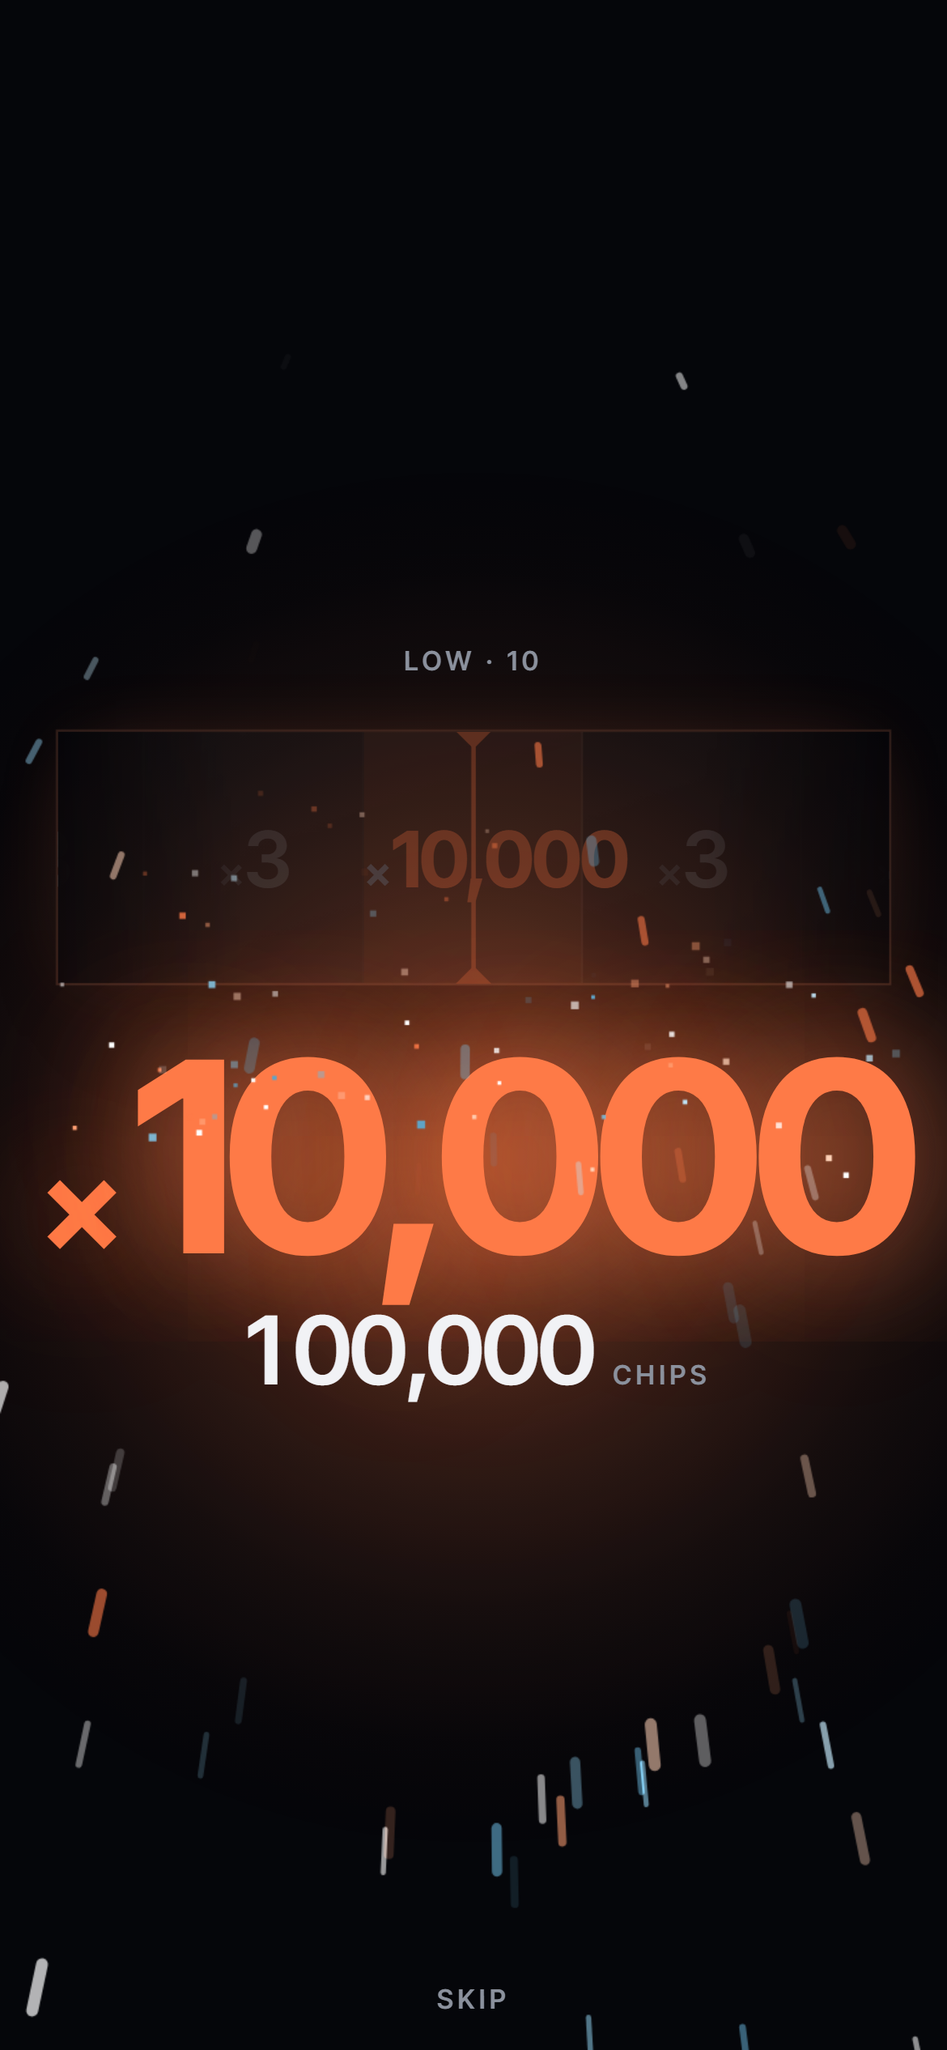
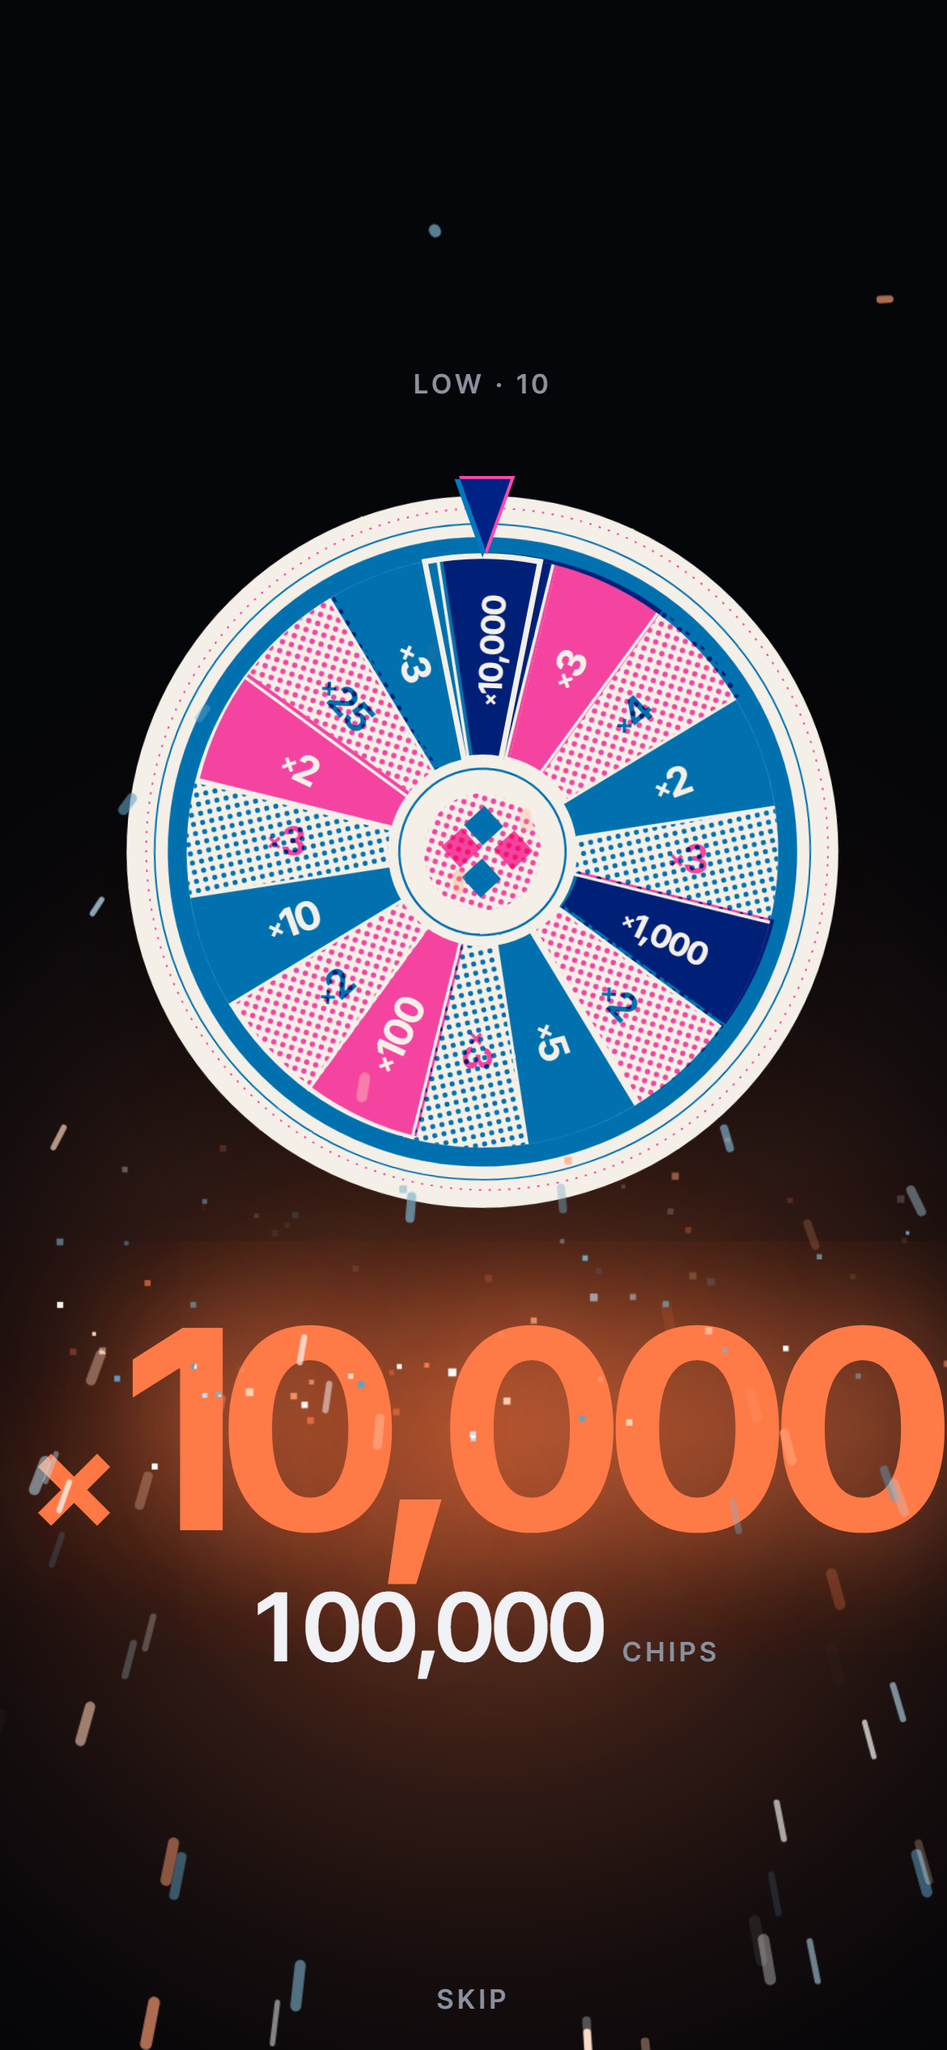
feat(ui): 倍率ルーレットを円形の2色刷りデザインに変更し、X投稿用スクショを撮り直す

diff --git a/src/ui/wheel.js b/src/ui/wheel.js
@@ -1,18 +1,19 @@
-// Multiplier reveal. The strip is drawn from the real odds of the stake (no near-miss padding: what scrolls past is as likely as it
-// really is) and the stopped cell is the server's multiplier. Only the *show* scales with the result, in five steps:
-//   t0  x2 x3        crisp ~2.4 s: ratchet reel, detent bounce, window flash, small stinger
+// Multiplier reveal on a round prize wheel, printed like a two-colour risograph (pink + blue plates, slightly off-register, on a paper
+// disc). Every multiplier of the stake has one segment; x2 / x3 fill the rest. The wheel stops with the server's multiplier under the
+// pointer (top). The segments are not the odds (those are in the rules). Only the *show* scales with the result, in five steps:
+//   t0  x2 x3        crisp ~2.4 s: ratchet wheel, detent bounce, segment flash, small stinger
 //   t1  x4 x5        ~4.1 s: slower "will it stop?" crawl, ring + glow, haptic
 //   t2  x10 x25      ~5.3 s: dim + drone, long creep, flash + shake, sparks, prize rolls up with acceleration
 //   t3  x100         ~7.6 s: build-up (rays, scanlines, heartbeat vignette, speeding drone), hard cut, stamp, burst, embers
 //   t4  x1000+       ~7.9 s: t3 + a second burst with a colour shift (x10000: a third)
 // Tap / Enter / Esc skips: the first tap jumps to the final state (multiplier + prize), the next one leaves. Reduced motion: no
-// strip, shake, particles or rays, only a short fade.
+// spin, shake, particles or rays, only a short fade.
 import { MULTIPLIERS, STAKES } from '../spin.js';
 import { $, REDUCE, fmt, STAKE_LABEL } from './util.js';
 import * as snd from './sound.js';
 
 const tier = m => m >= 1000 ? 4 : m >= 100 ? 3 : m >= 10 ? 2 : m >= 4 ? 1 : 0;
-const CELL = 96;
+const CELL = 96;   // the motion profiles below are in "cells"; one cell = one segment of the wheel
 const lerp = (a, b, k) => a + (b - a) * k, clamp01 = k => k < 0 ? 0 : k > 1 ? 1 : k;
 const E = { in2: k => k * k, lin: k => k, out: p => k => 1 - Math.pow(1 - k, p) };
 // reel motion per tier: segments of { ms, d: px (relative weights), e: easing }. Speeds join up (2d/ms for ease-in, p*d/ms for ease-out).
@@ -28,11 +29,56 @@ const AFTER = [1000, 1700, 2100, 2900, 2960];                          // ms fro
 const COUNT = [420, 750, 1000, 1700, 1900], BOOM = [0, 0, 0, 160, 160]; // prize roll-up; the hard-cut pause before the boom
 const FREE_MS = { reveal: 600, count: 500, hold: 1500 };
 
-function pickWeighted(rows) {
-  let r = Math.random() * rows.reduce((s, x) => s + x[1], 0);
-  for (const [m, n] of rows) { if ((r -= n) < 0) return m }
-  return rows[rows.length - 1][0];
+/* ---------- the wheel (SVG, viewBox -200..200, pointer at the top = -90°) ---------- */
+const NSEG = 16, SEG = 360 / NSEG, PAPER = '#F4F0E8', PINK = '#FF48B0', BLUE = '#0078BF';
+// one segment per multiplier of the stake, spread round the wheel (large and small alternate), x3 / x2 in between
+function wheelSegments(stake) {
+  const rare = (MULTIPLIERS[stake] || []).map(r => r[0]).filter(x => x >= 4), order = [];
+  for (let hi = 0, lo = rare.length - 1; hi <= lo;) { order.push(rare[hi++]); if (hi <= lo) order.push(rare[lo--]) }
+  const segs = new Array(NSEG).fill(0);
+  order.forEach((m, k) => { segs[Math.round(k * NSEG / order.length)] = m });
+  for (let i = 0, c = 0; i < NSEG; i++) if (!segs[i]) segs[i] = c++ % 2 ? 2 : 3;
+  return segs;
 }
+const at = (r, a) => `${(r * Math.cos(a * Math.PI / 180)).toFixed(2)} ${(r * Math.sin(a * Math.PI / 180)).toFixed(2)}`;
+const wedge = (a0, a1, r0, r1) => `M${at(r0, a0)}L${at(r1, a0)}A${r1} ${r1} 0 0 1 ${at(r1, a1)}L${at(r0, a1)}A${r0} ${r0} 0 0 0 ${at(r0, a0)}Z`;
+const R = 168, RIM = R * .94, HUB = R * .3, OFF = 'translate(2.4 -1.6)';   // OFF: the pink plate's misregistration
+const TILES = (f1, f2) => `<rect x="-31.5" y="-31.5" width="27" height="27" fill="${f1}"/><rect x="4.5" y="4.5" width="27" height="27" fill="${f1}"/><rect x="4.5" y="-31.5" width="27" height="27" fill="${f2}"/><rect x="-31.5" y="4.5" width="27" height="27" fill="${f2}"/>`;
+function wheelDisc(segs) {
+  // ink per segment: P pink, B blue, H pink halftone, K blue halftone, X both (overprint, for x1000 and up)
+  const ink = segs.map((m, i) => m >= 1000 ? 'X' : ['K', 'P', 'H', 'B'][i % 4]);
+  const label = (i, fill) => {
+    const a = -90 + i * SEG, n = ((a % 360) + 360) % 360, rot = n > 90 && n < 270 ? a + 180 : a, [x, y] = at(R * .64, a).split(' '), fs = segs[i] >= 1000 ? 17 : 21;
+    return `<text x="${x}" y="${y}" transform="rotate(${rot} ${x} ${y})" text-anchor="middle" dominant-baseline="central" font-size="${fs}" fill="${fill}"><tspan font-size="${fs * .6}">×</tspan>${fmt(segs[i])}</text>`;
+  };
+  let pink = '', blue = '', knock = '';
+  segs.forEach((m, i) => {
+    const a = -90 + i * SEG, d = wedge(a - SEG / 2, a + SEG / 2, HUB, RIM), k = ink[i];
+    if (k === 'P' || k === 'X') pink += `<path d="${d}" fill="${PINK}"/>`;
+    if (k === 'B' || k === 'X') blue += `<path d="${d}" fill="${BLUE}"/>`;
+    if (k === 'H') { pink += `<path d="${d}" fill="url(#wdp)"/>`; blue += label(i, BLUE) }
+    if (k === 'K') { blue += `<path d="${d}" fill="url(#wdb)"/>`; pink += label(i, PINK) }
+    if (k === 'P' || k === 'B' || k === 'X') knock += label(i, PAPER);
+    knock += `<path d="M${at(HUB, a - SEG / 2)}L${at(RIM, a - SEG / 2)}" stroke="${PAPER}" stroke-width="1.6"/>`;
+    const [px, py] = at((R + RIM) / 2, a - SEG / 2).split(' '); blue += `<circle cx="${px}" cy="${py}" r="2.6" fill="${BLUE}"/>`;
+  });
+  blue += `<circle r="${(R + RIM) / 2}" fill="none" stroke="${BLUE}" stroke-width="${R - RIM}"/><circle r="${R + 7}" fill="none" stroke="${BLUE}" stroke-width=".9"/>`;
+  pink += `<circle r="${R + 14}" fill="none" stroke="${PINK}" stroke-width=".9" stroke-dasharray="1.2 4"/>`;
+  knock += `<circle r="${HUB}" fill="${PAPER}"/>`;
+  return `<svg class="w-disc" viewBox="-200 -200 400 400"><defs>
+      <pattern id="wdp" width="5" height="5" patternUnits="userSpaceOnUse" patternTransform="rotate(15)"><circle cx="2.5" cy="2.5" r="1.45" fill="${PINK}"/></pattern>
+      <pattern id="wdb" width="5" height="5" patternUnits="userSpaceOnUse" patternTransform="rotate(75)"><circle cx="2.5" cy="2.5" r="1.35" fill="${BLUE}"/></pattern></defs>
+    <circle r="${R + 22}" fill="${PAPER}"/>
+    <g class="pl">${blue}</g><g class="pl" transform="${OFF}">${pink}</g><g>${knock}</g>
+    <g class="pl"><circle r="${HUB - 6}" fill="none" stroke="${BLUE}" stroke-width="1.2"/><circle r="${HUB * .62}" fill="url(#wdp)"/><g transform="rotate(45) scale(.55)">${TILES(BLUE, 'transparent')}</g></g>
+    <g class="pl" transform="${OFF} rotate(45) scale(.55)">${TILES('transparent', PINK)}</g></svg>`;
+}
+// what does not turn: the flash and outline on the segment under the pointer, and the pointer itself
+const wheelFront = () => {
+  const d = wedge(-90 - SEG / 2, -90 + SEG / 2, HUB, RIM), tri = 'M-15 -199L15 -199L0 -157Z';
+  return `<svg class="w-front" viewBox="-200 -200 400 400"><path class="w-win" d="${d}" fill="#fff" opacity="0"/><path class="w-hitl" d="${d}" fill="none" stroke="${PAPER}" stroke-width="3"/>
+    <g class="pl"><path d="${tri}" fill="${BLUE}"/></g><g class="pl" transform="${OFF}"><path d="${tri}" fill="${PINK}"/></g></svg>`;
+};
 
 /* ---------- sparks / embers on a canvas ---------- */
 const WARM = ['#FE7A47', '#FF9F73', '#FFD2B8', '#ffffff'], COOL = ['#7DB4CF', '#5FA3C6', '#BFE3F5', '#ffffff'], ALL = [...WARM, ...COOL];
@@ -73,36 +119,36 @@ function makeFx(canvas, host) {
 export function playWheel(info) {
   return new Promise(resolve => {
     const el = $('#wheel'), free = info.multiplier == null, m = info.multiplier, t = free ? 0 : tier(m), to = info.prize || 0;
-    const rows = free ? [] : MULTIPLIERS[info.stake] || [], buy = (STAKES[info.stake] || {}).buyIn;
+    const buy = (STAKES[info.stake] || {}).buyIn;
     const tok = el._tok = {};
     el.className = 'wheel t' + t;
     el.style.setProperty('--tc', t >= 2 ? '#FE7A47' : t === 1 ? 'var(--you-text)' : 'var(--ink)');
 
-    // ---- geometry: where the strip must travel so that the cell under the mark is the server's multiplier ----
+    // ---- geometry: how far the wheel turns (degrees) so that the segment under the pointer is the server's multiplier ----
     const prof = PROFILE[t].map(s => ({ ...s })), S = prof.reduce((s, x) => s + x.ms, 0), D0 = prof.reduce((s, x) => s + x.d, 0);
+    const segs = free ? [] : wheelSegments(info.stake);
+    if (!free && !segs.includes(m)) segs[0] = m;
+    const hits = segs.map((x, i) => x === m ? i : -1).filter(i => i >= 0), TARGET = hits[(Math.random() * hits.length) | 0] || 0;
+    // segment i sits at the pointer when the rotation is -i·SEG (mod 360); land a little off its centre, like a real wheel
+    const A0 = Math.random() * 360, base = D0 * SEG / CELL, land = -TARGET * SEG + (Math.random() - .5) * SEG * .5;
+    const D = base + ((((land - A0 - base) % 360) + 360) % 360), O = OVER[t] * SEG / CELL, sc = (D + O) / D0;
     el.hidden = false;
-    // first paint of a minimal shell so the reel width can be measured (the strip is filled in below)
-    el.innerHTML = `<div class="w-in"><div class="w-stack"><div class="w-reel"></div></div></div>`;
-    const wReel = free ? 0 : el.querySelector('.w-reel').clientWidth;
-    const TARGET = free ? 0 : Math.max(8, Math.round((D0 + wReel / 2) / CELL - .5)), N = TARGET + Math.ceil(wReel / 2 / CELL) + 3;
-    const D = (TARGET + .5) * CELL - wReel / 2, O = OVER[t], sc = (D + O) / D0;
-    const cells = Array.from({ length: N }, (_, i) => i === TARGET || !rows.length ? m : pickWeighted(rows));
 
     el.innerHTML = `<div class="w-in">
       <div class="w-bg"></div><div class="w-rays"></div><div class="w-scan"></div><div class="w-vig"></div><div class="w-glow"></div>
       <div class="w-stack">
         <div class="w-top"><div class="eyebrow">${STAKE_LABEL[info.stake] || ''}${buy ? ' · ' + fmt(buy) : ''}</div></div>
-        ${free ? '' : `<div class="w-reel" aria-hidden="true"><div class="w-strip">${cells.map((c, i) => `<div class="w-cell t${tier(c)}${i === TARGET ? ' tg' : ''}"><span><small>×</small>${fmt(c)}</span></div>`).join('')}</div><i class="w-mark"></i><i class="w-ring"></i><i class="w-win"></i></div>`}
+        ${free ? '' : `<div class="w-reel" aria-hidden="true"><div class="w-rot" style="transform:rotate(${A0}deg)">${wheelDisc(segs)}</div>${wheelFront()}<i class="w-ring"></i></div>`}
         <div class="w-res" role="status"><div class="w-mult" id="wMult">${free ? '<span class="w-free">FREEROLL</span>' : `<small>×</small>${fmt(m)}`}</div>
         <div class="w-prize" id="wPrize"><span id="wPv">0</span><small>CHIPS</small></div></div>
       </div>
       <canvas class="w-fx"></canvas><div class="w-flash"></div></div>
       <div class="w-hint eyebrow">SKIP</div>`;
     const q = s => el.querySelector(s);
-    const inEl = q('.w-in'), stack = q('.w-stack'), strip = q('.w-strip'), reel = q('.w-reel'), mult = q('#wMult'), prize = q('#wPrize'), pv = q('#wPv');
+    const inEl = q('.w-in'), stack = q('.w-stack'), rot = q('.w-rot'), reel = q('.w-reel'), mult = q('#wMult'), prize = q('#wPrize'), pv = q('#wPv');
     const bg = q('.w-bg'), rays = q('.w-rays'), scan = q('.w-scan'), vig = q('.w-vig'), flash = q('.w-flash'), win = q('.w-win'), ring = q('.w-ring');
     // a long multiplier (x10,000) must fit a phone: shrink the type, never wrap
-    const fit = () => { mult.style.fontSize = ''; const avail = stack.clientWidth - 8, w = mult.offsetWidth; if (w > avail) mult.style.fontSize = (parseFloat(getComputedStyle(mult).fontSize) * avail / w) + 'px' };
+    const fit = () => { mult.style.fontSize = ''; const avail = mult.parentElement.clientWidth - 8, w = mult.offsetWidth; if (w > avail) mult.style.fontSize = (parseFloat(getComputedStyle(mult).fontSize) * avail / w) + 'px' };
     fit();
     // light sources follow the real layout: rays/vignette on the reel, the glow behind the result
     const place = () => {
@@ -138,7 +184,7 @@ export function playWheel(info) {
     };
     const flashAll = (color, peak, ms) => { if (REDUCE) return; flash.style.background = color; flash.animate([{ opacity: peak }, { opacity: 0 }], { duration: ms, easing: 'ease-out' }) };
     const flashWin = peak => { if (REDUCE || !win) return; win.animate([{ opacity: peak }, { opacity: 0 }], { duration: 260, easing: 'ease-out' }) };
-    const pulseRing = (x = 3.6, ms = 520) => { if (REDUCE || !ring) return; ring.animate([{ transform: 'scaleX(1)', opacity: .95 }, { transform: `scaleX(${x})`, opacity: 0 }], { duration: ms, easing: 'cubic-bezier(.1,.7,.2,1)' }) };
+    const pulseRing = (x = 3.6, ms = 520) => { if (REDUCE || !ring) return; ring.animate([{ transform: 'scale(1)', opacity: .95 }, { transform: `scale(${1 + (x - 1) * .12})`, opacity: 0 }], { duration: ms, easing: 'cubic-bezier(.1,.7,.2,1)' }) };
     const stamp = () => {
       if (REDUCE) return;
       const kf = t >= 3 ? [{ transform: 'scale(3.4)', opacity: 0, filter: 'blur(14px)' }, { transform: 'scale(.9)', opacity: 1, filter: 'blur(0)', offset: .3 }, { transform: 'scale(1.05)', offset: .55 }, { transform: 'scale(1)', opacity: 1, filter: 'blur(0)' }]
@@ -169,7 +215,8 @@ export function playWheel(info) {
       if (pop && t >= 2 && !REDUCE) prize.animate([{ transform: 'scale(1)' }, { transform: 'scale(1.1)', offset: .4 }, { transform: 'scale(1)' }], { duration: 260, easing: 'cubic-bezier(.2,.8,.2,1)' });
     };
 
-    const hitCell = () => { const c = strip && strip.children[TARGET]; if (c) c.classList.add('hit') };
+    const hitCell = () => { if (reel) reel.classList.add('hit') };
+    const turn = p => { rot.style.transform = `rotate(${(A0 + p).toFixed(3)}deg)` };
     const showResult = () => { el.classList.add('rev'); mult.style.opacity = 1; prize.style.opacity = 1 };
 
     // the moment of impact (after the hard-cut pause on tier 3+)
@@ -223,7 +270,7 @@ export function playWheel(info) {
       timers.forEach(clearTimeout); timers.length = 0; clearTimeout(holdTimer);
       if (drone) { drone.stop(true); drone = null } if (fx) { fx.stop(); fx = null }
       cancelAnims();
-      if (strip) strip.style.transform = `translate3d(${-D}px,0,0)`;
+      if (rot) turn(D);
       if (t >= 2 && !reduced) { el.classList.add('dk'); bg.style.transition = 'none'; bg.style.opacity = 1 }
       [rays, scan, vig].forEach(x => { x.style.transition = 'none'; x.style.opacity = 0 });
       if (t >= 4) { mult.style.color = ''; el.style.setProperty('--tc', '#FE7A47') }
@@ -289,8 +336,8 @@ export function playWheel(info) {
     const frame = now => {
       if (!reelOn || done) return;
       const e = Math.max(0, now - tStart), p = posAt(e), v = (p - prevP) / Math.max(1, now - prevT);
-      strip.style.transform = `translate3d(${-p}px,0,0)`;
-      const s01 = clamp01(Math.abs(v) / 3.4), idx = Math.floor((p + wReel / 2) / CELL);
+      turn(p);
+      const s01 = clamp01(Math.abs(v) * CELL / SEG / 3.4), idx = Math.floor((A0 + p) / SEG + .5);   // a tick per segment boundary
       if (idx !== lastIdx) { lastIdx = idx; if (e < S) snd.tick(s01) }
       if (e < S) {
         if (drone) drone.set(s01);

diff --git a/src/style.css b/src/style.css
@@ -416,37 +416,38 @@ dialog::backdrop{background:rgba(12,14,20,.28);-webkit-backdrop-filter:blur(8px)
 .w-fx{inset:0;width:100%;height:100%;z-index:4}
 .w-flash{inset:0;background:#fff;opacity:0;z-index:5}
 .w-top{position:relative;text-align:center}
-.w-reel{position:relative;width:min(560px,100%);height:112px;overflow:hidden;border:1px solid var(--edge);background:linear-gradient(160deg,var(--glass-hi),var(--glass-lo));box-shadow:var(--shadow)}
-.wheel.dk .w-reel{border-color:color-mix(in srgb,var(--cpu) 45%,var(--edge));box-shadow:var(--shadow),0 0 36px -8px color-mix(in srgb,var(--cpu) 55%,transparent)}
-.w-reel::before,.w-reel::after{content:"";position:absolute;top:0;bottom:0;width:22%;z-index:2;pointer-events:none}
-.w-reel::before{left:0;background:linear-gradient(90deg,var(--bg),transparent)}
-.w-reel::after{right:0;background:linear-gradient(270deg,var(--bg),transparent)}
-.w-mark{position:absolute;left:50%;top:0;bottom:0;width:2px;margin-left:-1px;background:var(--cpu);z-index:3}
-.w-mark::before,.w-mark::after{content:"";position:absolute;left:50%;width:12px;height:12px;background:var(--cpu);transform:translateX(-50%) rotate(45deg)}
-.w-mark::before{top:-7px}.w-mark::after{bottom:-7px}
-.w-win{position:absolute;inset:0;background:var(--cpu);opacity:0;z-index:4;pointer-events:none}
-.wheel.t1 .w-win{background:#7DB4CF}
-.w-ring{position:absolute;left:50%;top:0;bottom:0;width:96px;margin-left:-48px;border:2px solid var(--tc);opacity:0;z-index:3;pointer-events:none}
-.w-strip{position:absolute;left:0;top:0;bottom:0;display:flex;will-change:transform}
-.w-cell{flex:none;width:96px;display:grid;place-items:center;font-family:var(--f-num);font-weight:600;font-size:34px;letter-spacing:-.04em;color:var(--ink-2);border-right:1px solid var(--hair)}
-.w-cell small{font-size:.55em;margin-right:1px;color:var(--muted)}
-.w-cell.t1{color:var(--you-text)}.w-cell.t2{color:var(--cpu)}.w-cell.t3,.w-cell.t4{color:var(--cpu);font-weight:700}
-.w-cell.hit{background:color-mix(in srgb,var(--tc) 16%,transparent);color:var(--tc)}
-.wheel.rev .w-cell:not(.hit){opacity:.4;transition:opacity .3s}
-.w-res{position:relative;display:grid;justify-items:center;gap:6px;min-height:150px;align-content:start}
+/* the round wheel: a paper disc printed in two inks (pink + blue, multiply), turned under a fixed pointer at the top */
+.w-reel{position:relative;--ws:min(86vw,360px,calc(var(--app-h,100dvh) - 320px));width:var(--ws);height:var(--ws);flex:none}
+.w-rot{position:absolute;inset:0;will-change:transform}
+.w-disc,.w-front{position:absolute;inset:0;width:100%;height:100%;overflow:visible;isolation:isolate}
+.w-disc{filter:drop-shadow(0 18px 30px rgba(0,0,0,.35))}
+.w-disc text{font-family:var(--f-num);font-weight:800;letter-spacing:-.5px}
+.w-disc .pl,.w-front .pl{mix-blend-mode:multiply}
+.w-hitl{opacity:0;transition:opacity .25s}
+.w-reel.hit .w-hitl{opacity:1}
+.w-ring{position:absolute;inset:-3%;border:2px solid var(--tc);border-radius:50%;opacity:0;z-index:3;pointer-events:none}
+.w-res{position:relative;display:grid;justify-items:center;justify-self:stretch;gap:6px;min-height:150px;align-content:start}
 .w-mult{font-family:var(--f-num);font-weight:700;font-size:clamp(76px,22vw,140px);letter-spacing:-.06em;line-height:.9;opacity:0;color:var(--tc);transform-origin:50% 60%;white-space:nowrap}
 .w-mult small{font-size:.5em;letter-spacing:0;margin-right:.04em}
 .w-prize{display:flex;align-items:baseline;gap:8px;font-family:var(--f-num);font-weight:600;font-size:clamp(30px,8vw,46px);letter-spacing:-.04em;font-variant-numeric:tabular-nums;opacity:0}
 .w-prize small{font-size:11px;letter-spacing:.16em;color:var(--muted)}
 .w-hint{position:absolute;z-index:6;bottom:calc(14px + var(--sab));left:0;right:0;text-align:center}
-.wheel.rev .w-reel{opacity:.5;transform:scale(.97);transition:opacity .4s,transform .4s}
-.wheel.t3.rev .w-reel,.wheel.t4.rev .w-reel{opacity:.3;transform:scale(.94)}
+.wheel.rev .w-reel{transform:scale(.96);transition:transform .4s}
+.wheel.t3.rev .w-reel,.wheel.t4.rev .w-reel{transform:scale(.92)}
 .w-free{font-family:var(--f-num);font-weight:700;font-size:clamp(34px,10vw,56px);letter-spacing:.14em;color:var(--you-text)}
 .wheel.t1 .w-mult{text-shadow:0 0 28px color-mix(in srgb,var(--tc) 40%,transparent)}
 .wheel.t2 .w-mult{font-size:clamp(88px,26vw,170px);text-shadow:0 0 36px color-mix(in srgb,var(--tc) 55%,transparent)}
 .wheel.t3 .w-mult,.wheel.t4 .w-mult{font-size:clamp(96px,30vw,230px);text-shadow:0 0 50px color-mix(in srgb,var(--tc) 70%,transparent),0 0 130px color-mix(in srgb,var(--tc) 40%,transparent);transition:color .3s}
 .wheel.t3 .w-prize,.wheel.t4 .w-prize{font-size:clamp(36px,10vw,64px)}
 @media (prefers-reduced-motion:reduce){.w-rays,.w-scan,.w-vig,.w-ring{display:none}.w-glow{animation:none!important}}
+/* a short landscape screen: the wheel on the left, the result on the right */
+@media (orientation:landscape) and (max-height:560px){
+  .w-stack{grid-template-columns:auto minmax(0,1fr);align-items:center;column-gap:28px;row-gap:6px}
+  .w-top{grid-column:1/-1}
+  .w-reel{--ws:min(calc(var(--app-h,100dvh) - 90px),300px)}
+  .w-res{min-height:0}
+  .wheel[class] .w-mult{font-size:min(22vw,calc(var(--app-h,100dvh) * .4))}
+}
 /* header sound toggle (src/ui/sound.js) */
 .top-r{justify-self:end;display:flex;align-items:center;gap:6px}
 .sound-toggle{width:2rem;height:2rem;display:grid;place-items:center;border:1px solid var(--hair-2);background:transparent;color:var(--ink);cursor:pointer;transition:border-color .3s cubic-bezier(.2,.8,.2,1)}
@@ -514,7 +515,6 @@ body.land .betm{left:calc(50% + var(--mine)*1.1);bottom:calc(var(--plh,66px) + 5
   .wordmark{font-size:38px}
   .mbtn{min-height:50px;font-size:18px}
   .tagline{margin-bottom:4px}
-  .w-reel{height:88px}
   .w-res{min-height:120px}
 }
 @media (max-height:560px) and (min-width:640px){

diff --git a/CLAUDE.md b/CLAUDE.md
@@ -22,6 +22,7 @@
 | 2026-10-04 | ランキングは半年ごとにシーズンを更新する。上位者を殿堂入りとして記録したあと、全員のチップを 10,000 に戻す。殿堂入りは記録のみ |
 | 2026-10-04 | 卓は WWYD の配置を参考にした楕円テーブル（色や UI コンセプトは Multiplier のまま）。タイトルに × は付けない |
 | 2026-10-04 | バトル画面には注意書き・規約リンクを出さない。Bot は 🤖 ではなく「Bot」のテキスト表記で、名前はありそうな外国人名（性格は名前に出さない） |
+| 2026-10-04 | 倍率ルーレットは円形。X の告知画像と同じピンク×青の2色刷り（リソグラフ風）で、アプリの配色から浮いてもよい（`src/ui/wheel.js`） |
 | 2026-10-04 | 利用規約・プライバシーポリシーは WWYD と同程度の分量に絞る（チップの扱い・禁止事項・18歳以上・国内向けは必ず残す）。連絡先は WWYD と同じメールアドレス |
 
 ## 3. 法務のガードレール（崩す変更はさつき＋専門家の確認が必要）
